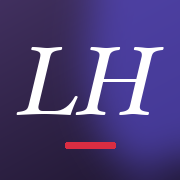
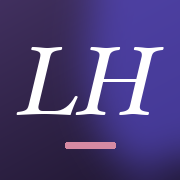
Swap the ruby accent for a softer dusty rose
The red read as too strong against the plum. The accent is now a dusty
rose (#a8506d) softened from her gown, with matching hover, highlight,
and pale variants for purple sections. Tokens are renamed to --accent
so the next color change is a one-line edit. The share image, favicon,
and app icon are regenerated to match. All text pairings pass WCAG AA.

Changed region(s): [[0.3611, 0.7778, 0.6667, 0.8333]]

diff --git a/docs/styles.css b/docs/styles.css
@@ -1,8 +1,8 @@
 /* ==========================================================
    Lynda R. Hasseler, D.M.A.
    Palette taken from her photographs:
-   plum from the Chasing Beauty artwork, ruby from her gown,
-   violet from the stage lights behind her.
+   plum from the Chasing Beauty artwork, violet from the stage lights
+   behind her, and a dusty rose softened from her gown as the accent.
    ========================================================== */
 
 :root {
@@ -14,10 +14,10 @@
     --lav-200: #ddd4f1;
     --lav-100: #efeaf8;
     --lav-50: #f8f5fc;
-    --ruby: #b1041d;
-    --ruby-dark: #8e0c21;
-    --ruby-bright: #da2d42;
-    --rose: #f4bcc5;
+    --accent: #a8506d;        /* dusty rose: buttons, labels, emphasis */
+    --accent-dark: #86405a;   /* hover and small text */
+    --accent-bright: #d68aa3; /* rules and underlines on dark plum */
+    --accent-soft: #f3c3d3;   /* accent text on purple sections */
     --cream: #fdfbf8;
     --white: #ffffff;
     --text: #261e30;
@@ -50,7 +50,7 @@ body {
 
 img { display: block; max-width: 100%; height: auto; }
 a { color: inherit; }
-::selection { background: var(--ruby); color: var(--white); }
+::selection { background: var(--accent); color: var(--white); }
 
 .skip-link {
     position: absolute; left: -9999px; top: 0; z-index: 100;
@@ -60,7 +60,7 @@ a { color: inherit; }
 .skip-link:focus { left: 16px; top: 12px; }
 
 :focus-visible { outline: 3px solid var(--violet); outline-offset: 3px; }
-.purple :focus-visible, .hero :focus-visible, .site-header :focus-visible, .quote-band :focus-visible { outline-color: var(--rose); }
+.purple :focus-visible, .hero :focus-visible, .site-header :focus-visible, .quote-band :focus-visible { outline-color: var(--accent-soft); }
 
 /* ---------- layout ---------- */
 
@@ -74,13 +74,13 @@ a { color: inherit; }
 .label {
     display: block;
     font-family: var(--sans); font-weight: 600; font-size: 14px; line-height: 1.4;
-    letter-spacing: .12em; text-transform: uppercase; color: var(--ruby);
+    letter-spacing: .12em; text-transform: uppercase; color: var(--accent);
 }
 .purple .label, .hero .label, .session .label { color: var(--lav-200); }
 
 .chapter { display: flex; align-items: center; gap: 14px; margin-bottom: 18px; }
-.chapter .num { font-family: var(--display); font-style: italic; font-size: 22px; line-height: 1; color: var(--ruby); }
-.purple .chapter .num { color: var(--rose); }
+.chapter .num { font-family: var(--display); font-style: italic; font-size: 22px; line-height: 1; color: var(--accent); }
+.purple .chapter .num { color: var(--accent-soft); }
 .chapter .line { width: 40px; height: 2px; background: currentColor; opacity: .25; }
 
 .title {
@@ -88,9 +88,9 @@ a { color: inherit; }
     font-size: clamp(2.2rem, 4.4vw, 3.5rem); line-height: 1.1; letter-spacing: -.012em;
     color: var(--plum-700); text-wrap: balance;
 }
-.title em { font-style: italic; font-weight: 400; color: var(--ruby); }
+.title em { font-style: italic; font-weight: 400; color: var(--accent); }
 .purple .title { color: var(--white); }
-.purple .title em { color: var(--rose); }
+.purple .title em { color: var(--accent-soft); }
 
 .sub {
     font-family: var(--display); font-weight: 500;
@@ -107,8 +107,8 @@ a { color: inherit; }
     cursor: pointer; transition: background .25s ease, color .25s ease, border-color .25s ease, transform .25s ease;
 }
 .btn:hover { transform: translateY(-1px); }
-.btn-ruby { background: var(--ruby); border-color: var(--ruby); color: var(--white); }
-.btn-ruby:hover { background: var(--ruby-dark); border-color: var(--ruby-dark); }
+.btn-accent { background: var(--accent); border-color: var(--accent); color: var(--white); }
+.btn-accent:hover { background: var(--accent-dark); border-color: var(--accent-dark); }
 .btn-outline-light { border-color: rgba(255, 255, 255, .75); color: var(--white); }
 .btn-outline-light:hover { background: var(--white); color: var(--plum-700); border-color: var(--white); }
 
@@ -129,7 +129,7 @@ a { color: inherit; }
 }
 .nav-link::after {
     content: ''; position: absolute; left: 0; right: 100%; bottom: -5px; height: 2px;
-    background: var(--ruby-bright); transition: right .25s ease;
+    background: var(--accent-bright); transition: right .25s ease;
 }
 .nav-link:hover { opacity: 1; }
 .nav-link:hover::after { right: 0; }
@@ -142,7 +142,7 @@ a { color: inherit; }
     padding: clamp(56px, 8vw, 110px) 0 clamp(80px, 9vw, 130px);
     background:
         radial-gradient(55% 75% at 82% 32%, rgba(91, 79, 216, .55) 0%, rgba(91, 79, 216, 0) 62%),
-        radial-gradient(45% 60% at 8% 95%, rgba(177, 4, 29, .22) 0%, rgba(177, 4, 29, 0) 60%),
+        radial-gradient(45% 60% at 8% 95%, rgba(168, 80, 109, .3) 0%, rgba(168, 80, 109, 0) 60%),
         linear-gradient(160deg, var(--plum-700) 0%, var(--plum-900) 100%);
 }
 .hero-grid { display: grid; grid-template-columns: 1.1fr .9fr; gap: clamp(40px, 6vw, 96px); align-items: center; }
@@ -153,7 +153,7 @@ a { color: inherit; }
 }
 .hero-name span { display: block; }
 .hero-name .first { font-style: italic; font-weight: 400; }
-.hero-rule { width: 80px; height: 4px; border-radius: 2px; background: var(--ruby-bright); margin: 30px 0 22px; }
+.hero-rule { width: 80px; height: 4px; border-radius: 2px; background: var(--accent-bright); margin: 30px 0 22px; }
 .credential { font-family: var(--sans); font-weight: 600; font-size: 16px; letter-spacing: .06em; text-transform: uppercase; color: var(--lav-200); }
 .hero-lede { margin-top: 14px; max-width: 30ch; font-size: clamp(1.25rem, 1.8vw, 1.5rem); line-height: 1.5; color: #f3eefa; }
 .hero-ctas { display: flex; flex-wrap: wrap; gap: 14px; margin-top: 36px; }
@@ -161,7 +161,7 @@ a { color: inherit; }
 .hero-frame { position: relative; margin: 0 30px 30px 0; }
 .hero-frame::before {
     content: ''; position: absolute; inset: 30px -30px -30px 30px;
-    border-radius: var(--radius); background: var(--ruby);
+    border-radius: var(--radius); background: var(--accent);
 }
 .hero-frame img {
     position: relative; width: 100%; aspect-ratio: 5 / 6; object-fit: cover; object-position: 55% 18%;
@@ -175,11 +175,11 @@ a { color: inherit; }
     font-family: var(--display); font-weight: 400;
     font-size: clamp(1.75rem, 3vw, 2.5rem); line-height: 1.32; color: var(--plum-700); text-wrap: pretty;
 }
-.lede em { font-style: italic; color: var(--ruby); }
+.lede em { font-style: italic; color: var(--accent); }
 
 .facts { display: grid; grid-template-columns: repeat(3, 1fr); gap: 20px; margin-top: clamp(44px, 5vw, 64px); }
 .fact {
-    background: var(--white); border: 1px solid var(--line); border-top: 4px solid var(--ruby);
+    background: var(--white); border: 1px solid var(--line); border-top: 4px solid var(--accent);
     border-radius: var(--radius); padding: 24px 22px 26px;
 }
 .fact .big { font-family: var(--display); font-weight: 600; font-size: clamp(1.9rem, 2.8vw, 2.5rem); line-height: 1.05; color: var(--plum-700); }
@@ -189,14 +189,14 @@ a { color: inherit; }
 /* ---------- a note from Lynda ---------- */
 
 .letter-grid { display: grid; grid-template-columns: 4fr 7fr; gap: clamp(32px, 6vw, 96px); align-items: start; }
-.letter-mark { margin-top: 16px; font-family: var(--display); font-size: 9rem; line-height: .75; color: var(--ruby); }
+.letter-mark { margin-top: 16px; font-family: var(--display); font-size: 9rem; line-height: .75; color: var(--accent); }
 .letter-title {
     margin-bottom: 24px; font-family: var(--display); font-weight: 500;
     font-size: clamp(1.9rem, 3vw, 2.5rem); line-height: 1.15; color: var(--plum-700); text-wrap: balance;
 }
 .letter-body p { font-size: 20px; margin-bottom: 1em; max-width: 62ch; }
 .letter-body .signoff { font-style: italic; margin: 1.6em 0 0; }
-.letter-body .signature { margin: 2px 0 0; font-family: var(--display); font-style: italic; font-size: 2.8rem; line-height: 1.1; color: var(--ruby); }
+.letter-body .signature { margin: 2px 0 0; font-family: var(--display); font-style: italic; font-size: 2.8rem; line-height: 1.1; color: var(--accent); }
 
 /* ---------- biography ---------- */
 
@@ -214,7 +214,7 @@ a { color: inherit; }
 .bio-text p { margin-bottom: 1.05em; max-width: 66ch; }
 .bio-text .dropcap::first-letter {
     float: left; font-family: var(--display); font-weight: 600; font-size: 4.3em; line-height: .82;
-    padding: .06em .1em 0 0; color: var(--ruby);
+    padding: .06em .1em 0 0; color: var(--accent);
 }
 
 /* ---------- highlights ---------- */
@@ -224,7 +224,7 @@ a { color: inherit; }
     display: grid; grid-template-columns: 150px 1fr; gap: 28px; align-items: baseline;
     padding: 24px 0; border-bottom: 1px solid rgba(255, 255, 255, .2);
 }
-.timeline .year { font-family: var(--display); font-weight: 500; font-size: clamp(1.9rem, 2.8vw, 2.4rem); line-height: 1; color: var(--rose); }
+.timeline .year { font-family: var(--display); font-weight: 500; font-size: clamp(1.9rem, 2.8vw, 2.4rem); line-height: 1; color: var(--accent-soft); }
 .timeline p { font-size: 19.5px; line-height: 1.6; color: #f7f3fc; max-width: 58ch; }
 
 .recordings { margin-top: clamp(48px, 6vw, 72px); }
@@ -241,7 +241,7 @@ a { color: inherit; }
 
 .principles { display: grid; grid-template-columns: repeat(3, 1fr); gap: 20px; margin-top: clamp(40px, 5vw, 64px); }
 .principle { background: var(--white); border: 1px solid var(--line); border-radius: var(--radius); padding: 28px 26px 30px; }
-.principle .num { display: block; margin-bottom: 10px; font-family: var(--display); font-style: italic; font-size: 20px; color: var(--ruby); }
+.principle .num { display: block; margin-bottom: 10px; font-family: var(--display); font-style: italic; font-size: 20px; color: var(--accent); }
 .principle h3 { margin-bottom: 10px; font-family: var(--display); font-weight: 500; font-size: 1.6rem; line-height: 1.2; color: var(--plum-700); }
 .principle p { font-size: 18px; color: var(--muted); }
 
@@ -264,7 +264,7 @@ a { color: inherit; }
 .maxims-title { margin-bottom: 18px; font-family: var(--display); font-weight: 500; font-size: clamp(1.5rem, 2.2vw, 1.85rem); color: var(--plum-700); }
 .maxims-list { list-style: none; display: grid; grid-template-columns: repeat(3, 1fr); gap: 14px; }
 .maxims-list li {
-    padding: 16px 18px; border-left: 4px solid var(--ruby); border-radius: 6px; background: var(--lav-50);
+    padding: 16px 18px; border-left: 4px solid var(--accent); border-radius: 6px; background: var(--lav-50);
     font-family: var(--display); font-style: italic; font-size: 1.3rem; line-height: 1.3; color: var(--plum-700);
 }
 
@@ -291,11 +291,11 @@ a { color: inherit; }
 }
 .press-link { font-size: 1.05rem; line-height: 1.4; }
 .press-link::after, .coverage-list a::after { content: ' \2197'; font-family: var(--sans); font-weight: 600; font-size: .8em; }
-.press-link:hover, .coverage-list a:hover { color: var(--ruby); text-decoration-color: currentColor; }
+.press-link:hover, .coverage-list a:hover { color: var(--accent); text-decoration-color: currentColor; }
 
 .coverage { display: grid; grid-template-columns: 1fr 1fr; gap: 24px; margin-top: 24px; align-items: start; }
 .coverage-group { background: var(--white); border: 1px solid var(--line); border-top: 4px solid var(--plum-700); border-radius: var(--radius); padding: 24px 26px 10px; }
-.coverage-group h4 { margin-bottom: 4px; font-family: var(--sans); font-weight: 600; font-size: 14px; letter-spacing: .12em; text-transform: uppercase; color: var(--ruby); }
+.coverage-group h4 { margin-bottom: 4px; font-family: var(--sans); font-weight: 600; font-size: 14px; letter-spacing: .12em; text-transform: uppercase; color: var(--accent); }
 .coverage-list { list-style: none; }
 .coverage-list li { padding: 14px 0; border-top: 1px solid var(--line); }
 .coverage-list li:first-child { border-top: 0; }
@@ -326,14 +326,14 @@ a { color: inherit; }
 .quote-band {
     text-align: center; color: var(--white);
     padding: clamp(72px, 9vw, 120px) var(--gutter);
-    background: radial-gradient(70% 120% at 50% 0%, var(--ruby-bright) 0%, var(--ruby) 45%, var(--ruby-dark) 100%);
+    background: radial-gradient(70% 120% at 50% 0%, #b8637f 0%, var(--accent) 45%, var(--accent-dark) 100%);
 }
 .quote-band p {
     max-width: 26ch; margin: 0 auto;
     font-family: var(--display); font-style: italic; font-weight: 400;
     font-size: clamp(1.9rem, 3.8vw, 3rem); line-height: 1.3; text-wrap: balance;
 }
-.quote-band cite { display: block; margin-top: 26px; font-family: var(--sans); font-style: normal; font-weight: 600; font-size: 15px; letter-spacing: .12em; text-transform: uppercase; color: #fbe3e7; }
+.quote-band cite { display: block; margin-top: 26px; font-family: var(--sans); font-style: normal; font-weight: 600; font-size: 15px; letter-spacing: .12em; text-transform: uppercase; color: #f8e1ea; }
 
 /* ---------- tributes ---------- */
 
@@ -343,7 +343,7 @@ a { color: inherit; }
     background: var(--white); border: 1px solid var(--line); border-radius: var(--radius);
     padding: clamp(28px, 4vw, 48px);
 }
-.tribute-mark { font-family: var(--display); font-size: 6rem; line-height: .8; color: var(--ruby); }
+.tribute-mark { font-family: var(--display); font-size: 6rem; line-height: .8; color: var(--accent); }
 .tribute blockquote p { font-size: 20px; line-height: 1.7; margin-bottom: .9em; max-width: 64ch; }
 .tribute cite { display: block; margin-top: 18px; font-family: var(--sans); font-style: normal; font-weight: 700; font-size: 17px; color: var(--plum-700); }
 .tribute cite span { display: block; margin-top: 2px; font-weight: 400; font-size: 16px; color: var(--muted); }
@@ -354,7 +354,7 @@ a { color: inherit; }
 .ahead-item { background: var(--white); border: 1px solid var(--line); border-top: 4px solid var(--plum-700); border-radius: var(--radius); padding: 26px 24px 28px; }
 .ahead-item h3 { margin-bottom: 8px; font-family: var(--display); font-weight: 500; font-size: 1.55rem; line-height: 1.2; color: var(--plum-700); }
 .ahead-item p { font-size: 18px; color: var(--muted); }
-.ahead-item a { color: var(--ruby); font-weight: 600; text-underline-offset: 3px; }
+.ahead-item a { color: var(--accent); font-weight: 600; text-underline-offset: 3px; }
 
 /* ---------- stay in touch ---------- */
 
@@ -384,7 +384,7 @@ a { color: inherit; }
 
 .btn-submit { width: 100%; margin-top: 4px; padding: 17px; font-size: 17px; }
 .btn-submit:disabled { opacity: .55; cursor: not-allowed; transform: none; }
-.form-status { min-height: 1.5em; margin-top: 12px; font-family: var(--sans); font-size: 16px; color: var(--ruby-dark); }
+.form-status { min-height: 1.5em; margin-top: 12px; font-family: var(--sans); font-size: 16px; color: var(--accent-dark); }
 
 .form-thanks { padding: 16px 4px; outline: none; }
 .thanks-title { font-family: var(--display); font-style: italic; font-size: 2.6rem; line-height: 1.1; color: var(--plum-700); }
@@ -413,7 +413,7 @@ a { color: inherit; }
 .simple { max-width: 580px; }
 .simple .label { color: var(--lav-200); margin-bottom: 18px; }
 .simple-title { font-family: var(--display); font-weight: 500; font-size: clamp(2.6rem, 7vw, 4.2rem); line-height: 1.08; text-wrap: balance; }
-.simple-title em { font-style: italic; font-weight: 400; color: var(--rose); }
+.simple-title em { font-style: italic; font-weight: 400; color: var(--accent-soft); }
 .simple p:not(.label) { margin: 18px 0 32px; font-size: 20px; color: #f1ecf8; }
 
 /* ---------- reveal on scroll ---------- */

diff --git a/docs/index.html b/docs/index.html
@@ -28,7 +28,7 @@
     <link rel="preconnect" href="https://fonts.gstatic.com" crossorigin>
     <link href="https://fonts.googleapis.com/css2?family=Fraunces:ital,opsz,wght@0,9..144,300..700;1,9..144,300..700&family=Source+Serif+4:ital,opsz,wght@0,8..60,400;0,8..60,600;1,8..60,400&family=Source+Sans+3:wght@400;600;700&display=swap" rel="stylesheet">
     <link rel="preload" as="image" href="assets/images/lynda-hero.webp" type="image/webp">
-    <link rel="stylesheet" href="styles.css?v=14">
+    <link rel="stylesheet" href="styles.css?v=15">
     <noscript><style>.site-header { background: rgba(41, 29, 63, .97); } .js .reveal { opacity: 1; transform: none; }</style></noscript>
 </head>
 <body>
@@ -42,7 +42,7 @@
                 <a href="#highlights" class="nav-link">Highlights</a>
                 <a href="#teaching" class="nav-link">Teaching</a>
                 <a href="#tributes" class="nav-link">Tributes</a>
-                <a href="#stay-in-touch" class="btn btn-ruby">Stay in touch</a>
+                <a href="#stay-in-touch" class="btn btn-accent">Stay in touch</a>
             </nav>
         </div>
     </header>
@@ -59,7 +59,7 @@
                     <p class="credential">Director of Choral Activities, Capital University, 1990–2026</p>
                     <p class="hero-lede">Thirty-five years of chasing beauty with the choirs of Capital University.</p>
                     <div class="hero-ctas">
-                        <a href="#biography" class="btn btn-ruby">Her story</a>
+                        <a href="#biography" class="btn btn-accent">Her story</a>
                         <a href="#stay-in-touch" class="btn btn-outline-light">Stay in touch</a>
                     </div>
                 </div>
@@ -384,7 +384,7 @@
                             <label for="f-message">A note or a favorite memory <span class="opt">optional</span></label>
                             <textarea id="f-message" name="entry.MESSAGE" data-field="message" rows="4"></textarea>
                         </div>
-                        <button type="submit" class="btn btn-ruby btn-submit">Stay in touch</button>
+                        <button type="submit" class="btn btn-accent btn-submit">Stay in touch</button>
                         <p class="form-status" role="status" aria-live="polite"></p>
                     </form>
                     <div class="form-thanks" hidden tabindex="-1">

diff --git a/docs/404.html b/docs/404.html
@@ -20,7 +20,7 @@
     <link rel="preconnect" href="https://fonts.googleapis.com">
     <link rel="preconnect" href="https://fonts.gstatic.com" crossorigin>
     <link href="https://fonts.googleapis.com/css2?family=Fraunces:ital,opsz,wght@0,9..144,300..700;1,9..144,300..700&family=Source+Serif+4:wght@400&family=Source+Sans+3:wght@600&display=swap" rel="stylesheet">
-    <link rel="stylesheet" href="styles.css?v=13">
+    <link rel="stylesheet" href="styles.css?v=15">
     <title>Page not found | Lynda Hasseler</title>
 </head>
 <body class="simple-page">

diff --git a/README.md b/README.md
@@ -66,8 +66,10 @@ one TXT record. It stops anyone else from claiming the domain on GitHub if the r
 - **Photos:** `docs/assets/images`. Replace files using the same names. `lynda-hero` is the red-gown
   photo, `lynda-portrait` is the headshot from the 2018 ACDA Michigan program, and the collage photos
   are a first pick from the 2024 Christmas Festival gallery.
-- **Design:** Lynda's own palette, sampled from her photos: plum #41305f (the Chasing Beauty artwork),
-  ruby #b1041d (her gown), and violet #5b4fd8 (the stage lights). Fraunces headings, Source Serif 4 body
+- **Design:** Lynda's own palette, sampled from her photos: plum #41305f (the Chasing Beauty artwork)
+  and violet #5b4fd8 (the stage lights), with a dusty rose accent #a8506d softened from her red gown.
+  The accent lives in the `--accent` tokens at the top of `styles.css`, so changing it is a one-line edit
+  (the share image and icons carry it too). Fraunces headings, Source Serif 4 body
   at 19px, Source Sans 3 labels. Readability first: dark text on light sections, no long italic passages.
   It shares the plum with the singer hub but none of its gold, lavender cards, pill buttons, or fonts.
 - A push goes live in about a minute.
